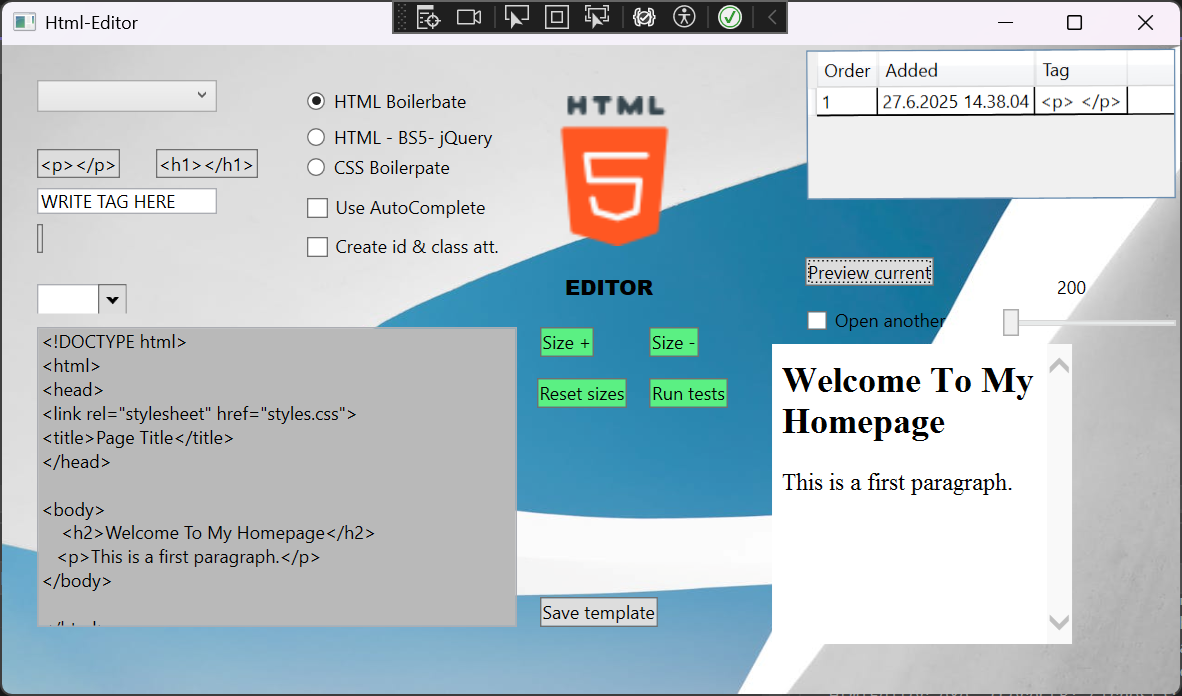
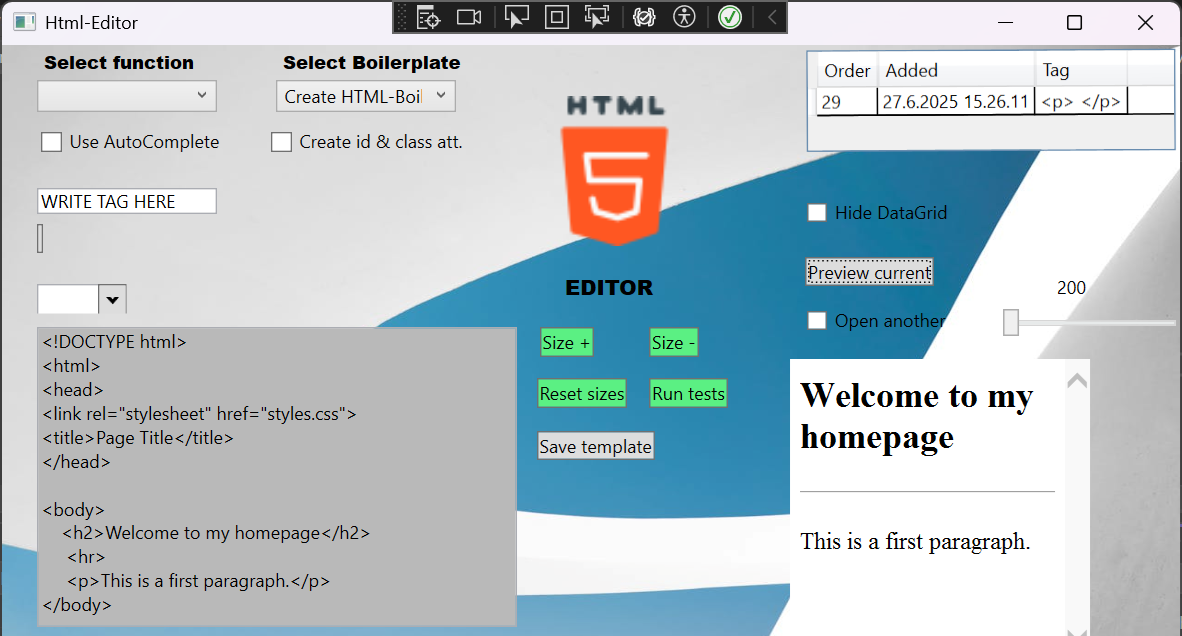
DataGrid size changed + added a method to hide/show datagrid.

diff --git a/HtmlEditor/MainWindow.xaml b/HtmlEditor/MainWindow.xaml
@@ -31,16 +31,16 @@
             <ComboBoxItem x:Name="CreateForm" Content="Create HTML-form" Selected="callFetch" Tag="1"></ComboBoxItem>
             <ComboBoxItem x:Name="CreateTable" Content="Create HTML table" Selected="callFetch" Tag="2"></ComboBoxItem>
         </ComboBox>
-        <WebBrowser x:Name="wbrow" HorizontalAlignment="Left" Height="189" Margin="478,199,0,0" VerticalAlignment="Top" Width="274" SnapsToDevicePixels="True" Grid.Column="1"/>
+        <WebBrowser x:Name="wbrow" HorizontalAlignment="Left" Height="189" Margin="490,209,0,0" VerticalAlignment="Top" Width="274" SnapsToDevicePixels="True" Grid.Column="1"/>
         <Button x:Name="tagBtn1" Content="&lt;p&gt;&lt;/p&gt;" HorizontalAlignment="Left" Margin="23,69,0,0" VerticalAlignment="Top" MouseMove="tagBtn1_MouseMove" Visibility="Hidden" Grid.ColumnSpan="2" />
         <Button x:Name="tagBtn2" Content="&lt;h1&gt;&lt;/h1&gt;" HorizontalAlignment="Left" Margin="67,69,0,0" VerticalAlignment="Top" MouseMove="tagBtn2_MouseMove" Visibility="Hidden" Grid.Column="1"/>
         <TextBox x:Name="writeTag" HorizontalAlignment="Left" Margin="23,95,0,0" TextWrapping="Wrap" VerticalAlignment="Top" Width="120" LostFocus="writeTag_LostFocus" Text="WRITE TAG HERE" Grid.ColumnSpan="2" />
         <Button x:Name="writedTag" Content="" HorizontalAlignment="Left" Margin="23,119,0,0" VerticalAlignment="Top" MouseMove="writedTag_MouseMove"/>
-        <Button x:Name="saveBtn" Content="Save template" HorizontalAlignment="Left" Margin="323,368,0,0" VerticalAlignment="Top" Click="saveBtn_Click" Grid.Column="1"/>
+        <Button x:Name="saveBtn" Content="Save template" HorizontalAlignment="Left" Margin="321,257,0,0" VerticalAlignment="Top" Click="saveBtn_Click" Grid.Column="1"/>
         <Button x:Name="viewBtn" Content="Preview current" HorizontalAlignment="Left" Margin="500,141,0,0" VerticalAlignment="Top" Click="viewBtn_Click" Grid.Column="1"/>
-        <RadioButton x:Name="htmlRadio" Content="HTML Boilerbate" HorizontalAlignment="Left" Margin="167,30,0,0" VerticalAlignment="Top" Checked="htmlRadio_Checked" Grid.Column="1"/>
-        <RadioButton x:Name="cssRadio" Content="CSS Boilerpate" HorizontalAlignment="Left" Margin="167,74,0,0" VerticalAlignment="Top" Click="cssRadio_Click" Grid.Column="1"/>
-        <CheckBox x:Name="autoCompCB" Content="Use AutoComplete" HorizontalAlignment="Left" Margin="167,101,0,0" VerticalAlignment="Top" Checked="autoCompCB_Checked" Unchecked="autoCompCB_Unchecked" Grid.Column="1"/>
+
+
+        <CheckBox x:Name="autoCompCB" Content="Use AutoComplete" HorizontalAlignment="Left" Margin="25,57,0,0" VerticalAlignment="Top" Checked="autoCompCB_Checked" Unchecked="autoCompCB_Unchecked" Grid.ColumnSpan="2"/>
         <controls:AutoCompleteBox x:Name="acbox"  HorizontalAlignment="Left"  VerticalAlignment="Top" Margin="7,153,0,0" Width="100" Visibility="Hidden" Grid.Column="1"></controls:AutoCompleteBox>
         <Button x:Name="boxIncreaseBtn" Background="#5bf083" Content="Size +" HorizontalAlignment="Left" Margin="323,188,0,0" VerticalAlignment="Top" Click="boxIncrease_Click" RenderTransformOrigin="-0.382,-0.048" Grid.Column="1"/>
         <Button x:Name="boxDecreaseBtn" Background="#5bf083"  Content="Size -" HorizontalAlignment="Left" Margin="396,188,0,0" VerticalAlignment="Top" Click="boxDecrease_Click" Grid.Column="1"/>
@@ -50,8 +50,8 @@
         <Label x:Name="sliderVal" Content="{Binding ElementName=previewSlider, Path=Value, UpdateSourceTrigger=PropertyChanged}" HorizontalAlignment="Left" Margin="663,148,0,0" VerticalAlignment="Top" Grid.Column="1"/>
         <CheckBox x:Name="openAnother" Content="Open another" HorizontalAlignment="Left" Margin="500,176,0,0" VerticalAlignment="Top" Checked="openAnother_Checked" Grid.Column="1" />
         <Button x:Name="resetBtn" Background="#5bf083" Content="Reset sizes" HorizontalAlignment="Left" Margin="321,222,0,0" VerticalAlignment="Top" Click="resetBtn_Click" Grid.Column="1"/>
-        <RadioButton x:Name="htmlBsJquery" Content="HTML - BS5- jQuery" HorizontalAlignment="Left" Margin="167,54,0,0" VerticalAlignment="Top" Checked="htmlBsJquery_Checked" Grid.Column="1"/>
-        <DataGrid x:Name="debugdg"  Margin="501,3,3,330" RenderTransformOrigin="0.5,0.5" Grid.Column="1">
+
+        <DataGrid x:Name="debugdg"  Margin="501,3,3,362" RenderTransformOrigin="0.5,0.5" Grid.Column="1">
             <DataGrid.RenderTransform>
                 <TransformGroup>
                     <ScaleTransform/>
@@ -61,9 +61,17 @@
                 </TransformGroup>
             </DataGrid.RenderTransform>
         </DataGrid>
-        <CheckBox x:Name="createAttributes" Grid.Column="1" Content="Create id &amp; class att." HorizontalAlignment="Left" Margin="167,127,0,0" VerticalAlignment="Top" Checked="createAttributes_Checked" Unchecked="createAttributes_Unchecked"/>
+        <CheckBox x:Name="createAttributes" Grid.Column="1" Content="Create id &amp; class att." HorizontalAlignment="Left" Margin="143,57,0,0" VerticalAlignment="Top" Checked="createAttributes_Checked" Unchecked="createAttributes_Unchecked"/>
         <Label x:Name="currentSize" Grid.Column="1" Content="" HorizontalAlignment="Left" Margin="202,153,0,0" VerticalAlignment="Top"/>
         <Button x:Name="testbtn" Grid.Column="1" Background="#5bf083"  Content="Run tests" HorizontalAlignment="Left" Margin="396,222,0,0" VerticalAlignment="Top" Click="testbtn_Click"/>
+        <ComboBox x:Name="BoilerplateCB" Grid.Column="1" HorizontalAlignment="Left" Margin="147,23,0,0" VerticalAlignment="Top" Width="120">
+            <ComboBoxItem x:Name="htmlBoilerplate" Content="Create HTML-Boilerplate" Selected="htmlRadio_Checked"></ComboBoxItem>
+            <ComboBoxItem x:Name="cssBoilerPlate" Content="Create CSS-Boilerplate" Selected="cssRadio_Click"></ComboBoxItem>
+            <ComboBoxItem x:Name="htmlbsJquery" Content="Cretae HTML/BS/jQuery" Selected="htmlBsJquery_Checked"></ComboBoxItem>
+        </ComboBox>
+        <Label x:Name="boilerLbl" Grid.Column="1" Content="Select Boilerplate" HorizontalAlignment="Left" Margin="147,0,0,0" VerticalAlignment="Top" Width="140" FontFamily="Arial Black"/>
+        <Label x:Name="functionLbl" Content="Select function" HorizontalAlignment="Left" VerticalAlignment="Top" Width="117" FontFamily="Arial Black" Grid.ColumnSpan="2" Margin="23,0,0,0"/>
+        <CheckBox x:Name="DataGridCB" Grid.Column="1" Content="Hide DataGrid" HorizontalAlignment="Left" Margin="500,104,0,0" VerticalAlignment="Top" Checked="DataGridCB_Checked" Unchecked="DataGridCB_Unchecked"/>
     </Grid>
 
 

diff --git a/HtmlEditor/MainWindow.xaml.cs b/HtmlEditor/MainWindow.xaml.cs
@@ -181,8 +181,8 @@ namespace HtmlEditor
             string boilerPlate = "<!DOCTYPE html>\r\n<html>\r\n<head>\r\n<link rel=\"stylesheet\" href=\"styles.css\"> \r\n<title>Page Title</title>\r\n</head>\r\n\r\n<body>\r\n    <h2>Welcome</h2>\r\n</body>\r\n\r\n</html>";
             txtBox.AppendText(boilerPlate);
             //buttonit muutetaan näkyviksi
-            tagBtn1.Visibility = Visibility.Visible;
-            tagBtn2.Visibility = Visibility.Visible;
+            //tagBtn1.Visibility = Visibility.Visible;
+            //tagBtn2.Visibility = Visibility.Visible;
 
         }
         private void htmlBsJquery_Checked(object sender, RoutedEventArgs e)
@@ -420,6 +420,18 @@ namespace HtmlEditor
         {
             testCases.testBoilerPlateHtml(txtBox);
          
+        }
+
+        private void DataGridCB_Checked(object sender, RoutedEventArgs e)
+        {
+            debugdg.Visibility = Visibility.Hidden;
+            DataGridCB.Content = "Show Datagrid";
+        }
+
+        private void DataGridCB_Unchecked(object sender, RoutedEventArgs e)
+        {
+            debugdg.Visibility = Visibility.Visible;
+            DataGridCB.Content = "Hide Datagrid";
         }
     }
 }
